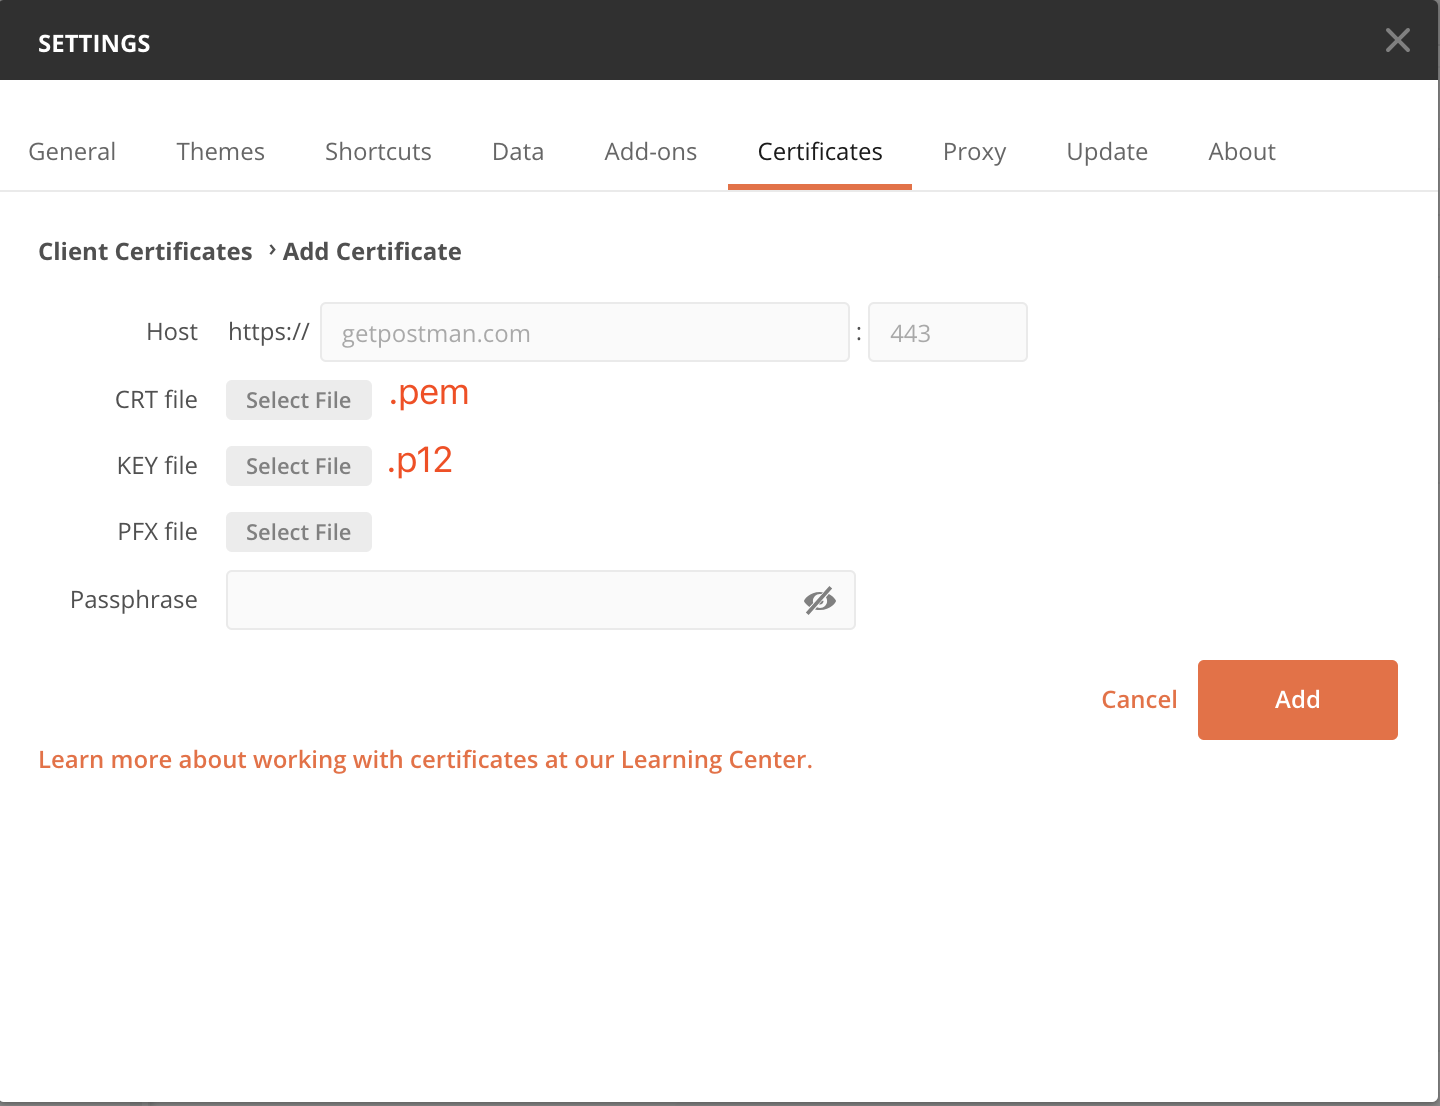
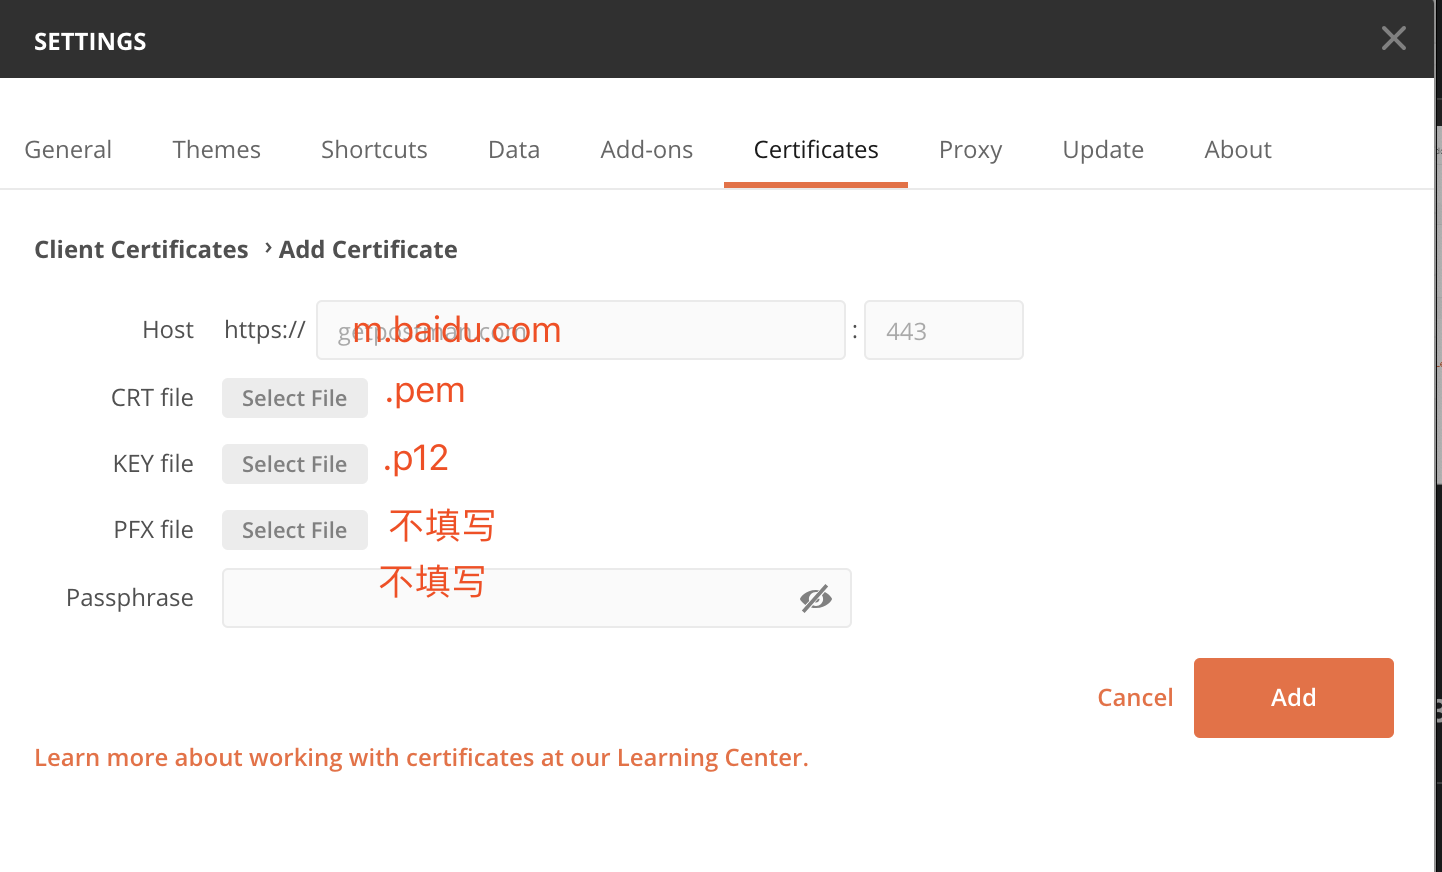
update

diff --git a/_posts/2019-03-26-postman-https.md b/_posts/2019-03-26-postman-https.md
@@ -1,0 +1,47 @@
+---
+layout: post
+title: postman抓HTTPS的包
+categories: [interface]
+description: some word here
+keywords: keyword1, keyword2
+---
+
+postman可以作为proxy抓获手机端的HTTP，HTTPS请求，这样获取的请求就可以直接用，有很多参数就不用手动输入了。获取HTTP操作方式如下：
+
+### 一、抓手机端的HTTP
+
+1. 点击右上角的卫星图标 > capture requests ,打开开关
+
+![](/images/2020-03-26-1-1.png)
+
+2. 在手机端设置代理IP和端口号，注意：postman的默认端口号是5555
+
+![](/images/2020-03-26-1.png)
+
+3. 然后再在手机端使用APP，会直接将请求显示在History的tab上
+
+
+### 二、抓手机端的HTTPS
+
+在上面问题的基础上继续抓HTTPS
+
+1. 页面右上角的扳手图标 > seeting > General, 关闭SSL选项，如图所示：
+
+![](/images/2020-03-26-2.png)
+
+2. 继续上面的步骤，切换到Cerficates 的tab上，点击Add cerficate,如下图
+
+![](/images/2020-03-26-2.png)
+
+网上大部分的方法都是说自己生成证书然后上传，试过后发现并不能用，终于有个人说可以用Charles的公钥，私钥，说的很有道理，果然可以。将Charles导出的文件分别上传到postman的对应位置，域名随便填写的m.baidu.com。注意：不要写自己将要自己的域名，会通不过
+
+![](/images/2020-03-26-4.png)
+
+![](/images/2020-03-26-3.png)
+
+
+### 三、使用postman测试HTTPS
+
+需要做问题二的设置，要不然会出现如下所示的错误：
+
+![](/images/2020-03-26-5.png)
